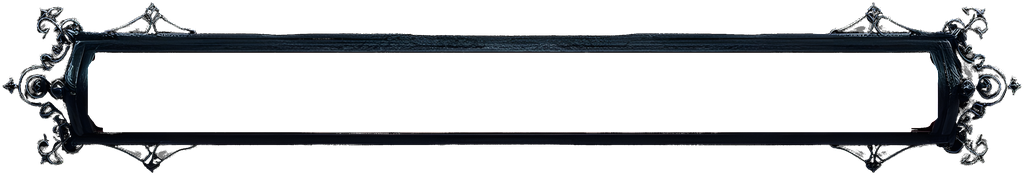
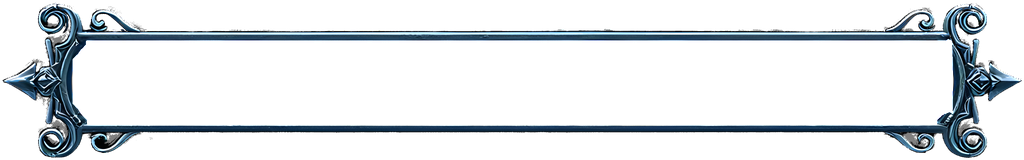
hud: the resource bars wear the silver frame (Mana bar #13)
Phase 7 of docs/ui-updates-2-plan.md. Michael: the iron bar frames were too
dark; he picked the kit's silver Mana Status Bar #13.

tools/CutBarFrame.py cuts it with a new --fluid red|blue (blue is the default
now; the iron cut is `--src "...Life Status Bars (1).png" --fluid red`). The
silver needed three things the iron did not:
- A blue test by SATURATION, not ratio: measured, the silver's dark tones are
  (39, 62, 77) - blue twice its red - so a ratio test took the frame. The fluid
  has almost no red at real brightness, and the silver always carries some.
- Only the ONE contiguous run of tube columns through the middle is punched
  (TUBE_SHARE): the caps carry blue reflections that pass the fluid test.
- A column's hole may never pass the straight run's top and bottom lines (a
  capsule's ends only pull in): a reflection on the top rim had cut a notch.
The iron re-cut still reproduces (insets move ~0.001 with the stricter span).
PartyHudDraw.cpp holds the new printed constants.

The silver caps reach nearly a tube-height above and below the glass, and the
old layouts let neighbouring caps interleave - they now overlapped (Michael).
Both stacks fit WHOLE FRAMES: the party bar's StatsArea stacks tube + reach,
frame to frame kFramedGapRem (0.4 -> 0.12 rem, its meaning moved from glass to
frame); the sheet's Stats tab, whose rows are spaced by the attributes beside
them, shrinks a tube until its whole frame fits the row, centred where it was.
[…]

Changed region(s): [[0.0, 0.0312, 1.0, 1.0]]

diff --git a/tools/CutBarFrame.py b/tools/CutBarFrame.py
@@ -40,7 +40,9 @@ from PIL import Image
 KIT = os.path.join(os.environ.get("OneDrive", os.path.expanduser("~\\OneDrive")),
 				   "DungeonAssets", "ui", "medieval-rpg-ui-kit", "extracted",
 				   "upscayl_png_upscayl-standard-4x_4x")
-DEFAULT_SRC = os.path.join(KIT, "Life Status Bars (1).png")
+# The SILVER frame since ui-updates (Michael: the iron Life bar #1 was too dark).
+# The iron cut: --src "...Life Status Bars (1).png" --fluid red.
+DEFAULT_SRC = os.path.join(KIT, "Mana Status Bars (13).png")
 REPO = os.path.dirname(os.path.dirname(os.path.abspath(__file__)))
 DEFAULT_OUT = os.path.join(REPO, "assets", "ui", "bar_frame.png")
 
@@ -51,6 +53,7 @@ MEDIAN_WINDOW = 41            # source columns smoothed over for the hole's edge
 SNAP = 14                     # source px from the straight line that snaps onto it
 RIM_TOLERANCE = 12            # source px the silhouette may wander and still be plain rim
 BRIDGE = 8                    # passes closing one-column gaps in the plain run
+TUBE_SHARE = 0.35             # a column is tube when this share of the fullest is fluid
 
 
 def running_median(v, window):
@@ -72,13 +75,32 @@ def red_mask(rgb):
 	return (r > 40) & (r > 1.5 * g) & (r > 1.5 * b)
 
 
+def blue_mask(rgb):
+	# The silver (Mana) bars: blue wisps in glass that is blue right through,
+	# inside a silver frame with a COOL cast - measured, its dark tones are
+	# (39, 62, 77), blue twice its red, so a ratio test takes the frame too. What
+	# the fluid has and the silver never does is almost NO red at real brightness:
+	# (2, 62, 121), (13, 93, 182), (4, 156, 241). The silver's highlights carry
+	# red (188, 236, 255) and its darks never reach 100 blue.
+	r, b = rgb[..., 0], rgb[..., 2]
+	return (b > 100) & (r < 0.25 * b)
+
+
+FLUIDS = {"red": red_mask, "blue": blue_mask}
+
+
 def main():
 	ap = argparse.ArgumentParser()
 	ap.add_argument("--src", default=DEFAULT_SRC)
 	ap.add_argument("--out", default=DEFAULT_OUT)
 	ap.add_argument("--width", type=int, default=1024)
 	ap.add_argument("--preview", help="also write the frame over grey + checker")
+	ap.add_argument("--fluid", choices=sorted(FLUIDS), default="blue",
+					help="the colour of the bar's fluid, which marks the tube to punch "
+						 "(blue = the silver Mana bars, the frame in use since ui-updates; "
+						 "red = the iron Life bars)")
 	args = ap.parse_args()
+	fluid_mask = FLUIDS[args.fluid]
 
 	if not os.path.isfile(args.src):
 		sys.exit(f"source not found: {args.src}")
@@ -90,13 +112,15 @@ def main():
 	alpha = np.clip((bright - KEY_LO) / (KEY_HI - KEY_LO), 0.0, 1.0)
 
 	# --- 2. punch the tube -------------------------------------------------
-	red = red_mask(rgb)
-	# The tube is the long horizontal run of red; find its band from the
-	# columns that are mostly red, so a stray red speck elsewhere cannot widen it.
+	# (`red` names the FLUID mask whichever colour it is - the red Life bars came
+	# first and the code below still reads that way.)
+	red = fluid_mask(rgb)
+	# The tube is the long horizontal run of fluid; find its band from the
+	# columns that are mostly fluid, so a stray speck elsewhere cannot widen it.
 	col_count = red.sum(axis=0)
 	tube_cols = np.where(col_count > 0.5 * col_count.max())[0]
 	if tube_cols.size == 0:
-		sys.exit("no red tube found - is this a Life Status Bar?")
+		sys.exit(f"no {args.fluid} tube found - is --fluid right for this bar?")
 	rows_any = np.where(red[:, tube_cols].any(axis=1))[0]
 	band_top, band_bot = rows_any.min(), rows_any.max()
 	# Each column's red run, then a RUNNING MEDIAN of its top and bottom: the
@@ -105,7 +129,16 @@ def main():
 	# chewed iron once the fill behind it is a smooth glow.
 	tops = np.full(w, np.nan)
 	bots = np.full(w, np.nan)
-	for x in range(w):
+	# Only the ONE contiguous run of tube columns through the middle: the silver
+	# caps carry blue reflections that pass the fluid test, and a column there
+	# would put a hole through the ornament.
+	full = col_count > TUBE_SHARE * col_count.max()
+	span_l = span_r = w // 2
+	while span_l > 0 and full[span_l - 1]:
+		span_l -= 1
+	while span_r < w - 1 and full[span_r + 1]:
+		span_r += 1
+	for x in range(span_l, span_r + 1):
 		ys = np.where(red[band_top:band_bot + 1, x])[0]
 		if ys.size >= 4:
 			tops[x], bots[x] = band_top + ys.min(), band_top + ys.max()
@@ -116,6 +149,11 @@ def main():
 	top_line, bot_line = np.nanmedian(tops), np.nanmedian(bots)
 	tops = np.where(np.abs(tops - top_line) <= SNAP, top_line, tops)
 	bots = np.where(np.abs(bots - bot_line) <= SNAP, bot_line, bots)
+	# And never PAST those lines: a capsule's rounded ends only ever pull in, so
+	# a column reaching beyond the straight run is a reflection on the rim (the
+	# silver bar has one), not glass - it would cut a notch through the frame.
+	tops = np.maximum(tops, top_line)
+	bots = np.minimum(bots, bot_line)
 	hole = np.zeros((h, w), dtype=bool)
 	for x in range(w):
 		if not np.isnan(tops[x]):

diff --git a/src/Game/CharacterPanel.cpp b/src/Game/CharacterPanel.cpp
@@ -192,23 +192,27 @@ void StatsArea::DrawSelf(ui::UIContext& ctx, gfx::SpriteBatch& batch) {
 	const Character* c = RosterMember(m_roster, m_member);
 	if (!c) return;
 	const gfx::Rect& px = Pixel();
-	// The rects below are the GLASS, and each iron frame reaches past its tube
+	// The rects below are the GLASS, and each frame reaches past its tube
 	// (FrameReach). The frames must stay inside the member's slot (Michael,
-	// 2026-09-30: the chrome overlapped the character container), so the tubes
-	// are sized to leave room for the OUTER reaches: the caps at both ends, the
-	// scrollwork above the first bar and below the last. Between bars only the
-	// end scrollwork meets, and it is allowed to interleave.
+	// 2026-09-30: the chrome overlapped the character container), AND clear of
+	// each other (Michael, ui-updates: the silver caps reach nearly a
+	// tube-height each way and interleaved into one another) - so what stacks
+	// is WHOLE frames, each tube plus its reach above and below, a small gap
+	// apart.
 	const bool framed = m_barStyle->framed && m_barStyle->frame;
-	const float barGap = Rem(framed ? kFramedGapRem : 0.25f);
+	float barGap = Rem(framed ? kFramedGapRem : 0.25f);
 	float barH = (px.h - 2 * barGap) / 3.0f;
 	float x = px.x, w = px.w, top = px.y;
 	if (framed) {
 		const BarFrameReach unit = FrameReach(1.0f); // reaches per px of tube
-		barH = (px.h - 2 * barGap) / (3.0f + unit.top + unit.bottom);
+		const float span = 1.0f + unit.top + unit.bottom; // one frame, per px of tube
+		barH = (px.h - 2 * barGap) / (3.0f * span);
 		const BarFrameReach reach = FrameReach(barH);
 		x += reach.left;
 		w = std::max(w - reach.left - reach.right, 0.0f);
 		top += reach.top;
+		// From one tube's top to the next is one whole frame plus the gap.
+		barGap += reach.top + reach.bottom;
 	}
 	const struct {
 		float value, max;

diff --git a/src/Game/PartyHudDraw.cpp b/src/Game/PartyHudDraw.cpp
@@ -24,14 +24,15 @@ void DrawStatBar(gfx::SpriteBatch& batch, const gfx::Rect& rect, float fraction,
 namespace {
 
 // bar_frame.png's geometry, as printed by tools/CutBarFrame.py - fractions of
-// the frame image. Re-cut the frame, copy the new numbers here.
-constexpr float kFrameAspect = 1024.0f / 175.0f; // image width / height
-constexpr float kTubeLeft = 0.0858f;   // the glass, inset from each edge
-constexpr float kTubeRight = 0.0841f;
-constexpr float kTubeTop = 0.3016f;
-constexpr float kTubeBottom = 0.2444f;
-constexpr float kCapLeft = 0.1908f;    // where the end caps stop and the
-constexpr float kCapRight = 0.1887f;   // plain (stretchable) rim begins
+// the frame image. Re-cut the frame, copy the new numbers here. The SILVER
+// frame (Mana Status Bars #13) since ui-updates; the iron one was too dark.
+constexpr float kFrameAspect = 1024.0f / 160.0f; // image width / height
+constexpr float kTubeLeft = 0.0709f;   // the glass, inset from each edge
+constexpr float kTubeRight = 0.0696f;
+constexpr float kTubeTop = 0.2524f;
+constexpr float kTubeBottom = 0.2220f;
+constexpr float kCapLeft = 0.1332f;    // where the end caps stop and the
+constexpr float kCapRight = 0.1319f;   // plain (stretchable) rim begins
 
 // The heartbeat's numbers, in beats per minute. A first cut, Michael's to tune.
 constexpr float kBpmRest = 60.0f;

diff --git a/src/Game/CharacterSheet_Stats.cpp b/src/Game/CharacterSheet_Stats.cpp
@@ -95,6 +95,17 @@ void CharacterSheet::DrawStats(ui::UIContext& ctx, gfx::SpriteBatch& batch,
 		gfx::Rect bar{Ax(px, kBarX), rowTop + static_cast<float>(i) * rowStep,
 					  kBarW * px.w, kStatBarH * px.h};
 		if (framed) {
+			// The WHOLE frame - the glass plus its caps' reach above and below -
+			// must fit one row, or a bar's scrollwork runs into its neighbour's
+			// (Michael, ui-updates: the silver caps reach nearly a tube-height
+			// each way, and the rows are spaced by the attributes beside them).
+			// So the tube shrinks to fit and stays centred where it was.
+			const BarFrameReach unit = FrameReach(1.0f);
+			const float fit = rowStep * 0.94f / (1.0f + unit.top + unit.bottom);
+			if (bar.h > fit) {
+				bar.y += (bar.h - fit) * 0.5f;
+				bar.h = fit;
+			}
 			const BarFrameReach reach = FrameReach(bar.h);
 			bar.x += reach.left;
 			bar.w = std::max(bar.w - reach.left - reach.right, 0.0f);

diff --git a/src/Game/CharacterPanel.h b/src/Game/CharacterPanel.h
@@ -77,9 +77,9 @@ public:
 			  const ResourceBarStyle* barStyle, std::function<void()> onBars);
 
 private:
-	// Space between framed TUBES, in rem (flat bars keep 0.25). The frames'
-	// own reach already spaces them; this is the glass-to-glass gap.
-	static constexpr float kFramedGapRem = 0.4f;
+	// Space between framed bars, in rem (flat bars keep 0.25): FRAME to frame,
+	// since ui-updates stacks whole frames so their caps cannot interleave.
+	static constexpr float kFramedGapRem = 0.12f;
 
 	void UpdateSelf(ui::UIContext& ctx) override;
 	void DrawSelf(ui::UIContext& ctx, gfx::SpriteBatch& batch) override;
